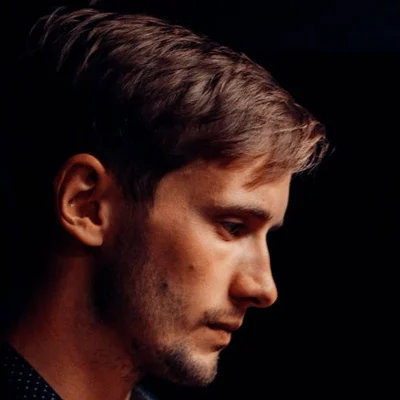
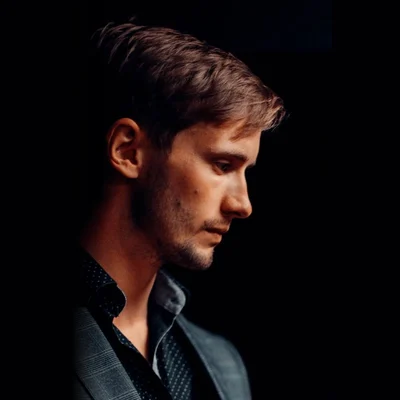
Photo: head and shoulders crop; reset lab; to-do: better photo

diff --git a/src/data/lab-variants.ts b/src/data/lab-variants.ts
@@ -5,4 +5,4 @@
  * variant with :global(html[data-lab='<id>']) … or read a `variant` prop.
  * Once a pick is applied for real, remove its ids and content from here.
  */
-export const labVariants: string[] = ['photo-a', 'photo-b'];
+export const labVariants: string[] = [];

diff --git a/docs/todo.md b/docs/todo.md
@@ -15,6 +15,10 @@ Ideas and content to come back to. Remove items once they're done.
   `src/data/profile.ts` (an empty list hides it).
 - **Screenshots** for Privet and Course Content Studio (`frame: phone` for phone
   shots), ideally matching each project's "How it works" steps.
+- **A better photo.** The current one (dark, in profile, looking down) is a
+  stand-in. Ideal: face or three-quarter view looking at the camera, head and
+  shoulders with space around, a neutral mid-tone background that works in both
+  light and dark mode, and the original file rather than a phone copy.
 - **Real numbers** in project highlights (time saved, posts published, users).
 - **LinkedIn and a CV (PDF)** in the hero. No phone number on the site.
 
